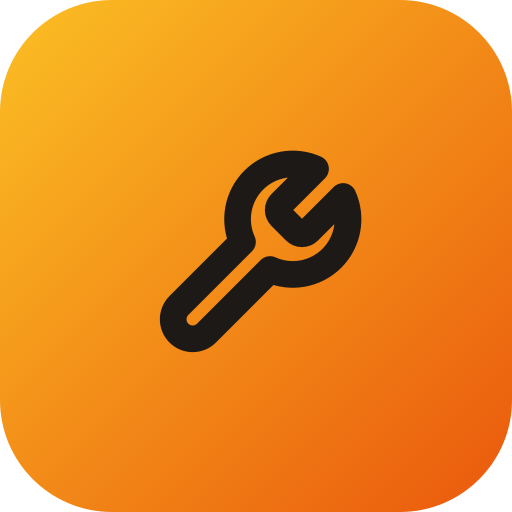
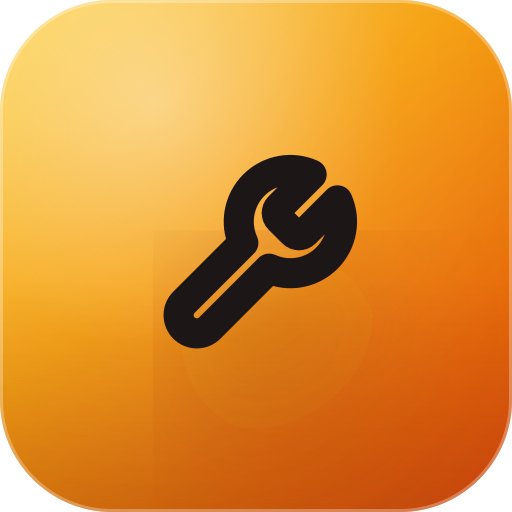
Visual: a porta do sistema parecia um rascunho
O que o dono via de manhã: um quadrado laranja chapado com um risco fino
de chave no meio, sozinho num fundo preto. Na gaveta de aplicativos, ao
lado de OLX, PagBank, Shopee e Telegram, o ícone parecia o rascunho que
ninguém terminou.

**Ícone.** O que separa um ícone acabado de um chapado, em ordem de
retorno: traço grosso (risco fino some no tamanho em que o ícone é olhado
de verdade), profundidade (gradiente de três paradas, brilho no canto de
cima, sombra no pé), sombra sob a marca (descola a chave do fundo, senão
parece adesivo colado) e um anel claro na borda, que é o que o olho lê
primeiro na tela inicial. O maskable continua sem enfeite: o recorte do
Android come justamente a borda onde eles moram.

O primeiro desenho da sombra usava região em porcentagem e o renderizador
pintava um retângulo mais escuro em volta da chave — uma caixa no meio do
ícone. A região agora é explícita.

**Abertura.** O fundo do manifest era #1c1917 e o da abertura do app era
#0f172a: a abertura do Android piscava de marrom para azul no primeiro
segundo, e é esse segundo que dá a impressão de app mal-acabado. Agora é
a mesma cor, com o mesmo brilho âmbar atrás da marca. E a marca respira e
solta um anel — foto parada por dois segundos parece travamento.

**Entrada.** Continua mostrando a loja e não o sistema, agora também no
login: com logo guardada neste aparelho, é a logo que aparece no lugar da
chave, e o nome da loja no lugar de "Sistema TI". Sem logo, fica a marca
[…]

diff --git a/app/src/pages/Login.tsx b/app/src/pages/Login.tsx
@@ -11,6 +11,7 @@ import {
   CONVITE_PENDENTE,
 } from "../lib/auth";
 import { supabaseEnabled } from "../lib/supabase";
+import { marcaDoAparelho } from "../lib/db";
 import {
   RAMOS,
   RAMO_META,
@@ -52,6 +53,14 @@ export const Login: React.FC<{ onEntrou: () => void }> = ({ onEntrou }) => {
   const [ramo, setRamo] = useState<Ramo | null>(() => lerRamoAparelho());
   /** Mostra os quatro tipos mesmo quando o aparelho já conhece a conta */
   const [verTipos, setVerTipos] = useState(false);
+  /**
+   * Nome e logo que este aparelho já tem guardados.
+   *
+   * Lido uma vez: é o mesmo dado que a abertura em index.html mostra, e ele
+   * não muda enquanto ninguém entrou. Some no logout junto com o resto do
+   * cache — num balcão compartilhado, a loja anterior não fica na porta.
+   */
+  const [marca] = useState(marcaDoAparelho);
 
   const escolherRamo = (r: Ramo) => {
     const novo = ramo === r ? null : r;
@@ -203,16 +212,46 @@ export const Login: React.FC<{ onEntrou: () => void }> = ({ onEntrou }) => {
     modo === "entrar" ? "Entrar" : modo === "criar" ? "Criar conta" : "Recuperar senha";
 
   return (
-    <div className="flex min-h-screen items-center justify-center bg-gradient-to-br from-slate-900 via-slate-800 to-brand-900 p-4">
+    <div className="fundo-entrada flex min-h-screen items-center justify-center p-4">
       <div className="w-full max-w-sm">
         <div className="mb-6 text-center">
-          {/* Mesma marca do ícone do app: quem toca no âmbar na tela inicial
-              precisa cair numa tela que confirma que abriu o app certo. */}
-          <div className="mx-auto mb-4 flex h-16 w-16 items-center justify-center rounded-2xl bg-gradient-to-br from-amber-400 to-orange-600 shadow-lg">
-            <Wrench className="text-stone-900" size={30} strokeWidth={2.5} />
+          {/*
+           * A porta é da LOJA, não do sistema.
+           *
+           * Com a logo guardada neste aparelho, é ela que aparece — quem abre
+           * às sete da manhã é o dono, e ver a marca dele antes de digitar a
+           * senha é a diferença entre um app que é da loja e um app genérico
+           * que a loja usa. Sem logo, fica a marca do sistema, que é a mesma
+           * do ícone da tela inicial: quem toca no âmbar precisa cair numa
+           * tela que confirma que abriu o app certo.
+           */}
+          <div
+            className={`marca-viva relative mx-auto mb-4 flex h-[72px] w-[72px] items-center justify-center overflow-hidden rounded-[20px] shadow-lg shadow-orange-900/40 ${
+              marca.logoUrl
+                ? "bg-white"
+                : "bg-gradient-to-br from-amber-300 via-amber-500 to-orange-600"
+            }`}
+          >
+            {marca.logoUrl ? (
+              <img
+                src={marca.logoUrl}
+                alt=""
+                className="h-full w-full object-contain"
+                onError={(e) => {
+                  e.currentTarget.style.display = "none";
+                }}
+              />
+            ) : (
+              <Wrench className="text-stone-900" size={32} strokeWidth={2.6} />
+            )}
           </div>
-          <h1 className="text-2xl font-bold text-white">Sistema TI</h1>
-          <p className="text-sm text-slate-400">
+          <h1 className="text-2xl font-bold tracking-tight text-white">
+            {marca.nomeLoja || "Sistema TI"}
+          </h1>
+          <p className="mt-1.5 text-[13px] leading-snug text-slate-400">
+            Abre, vende, conserta e fecha o dia certo.
+          </p>
+          <p className="mt-1 text-xs text-slate-500">
             {ramoNaTela ? RAMO_META[ramoNaTela].descricao : "Caixa, estoque e atendimento"}
           </p>
         </div>
@@ -372,7 +411,21 @@ export const Login: React.FC<{ onEntrou: () => void }> = ({ onEntrou }) => {
             </p>
           )}
 
-          <button type="submit" className="btn-primary mt-4 w-full" disabled={carregando}>
+          {/*
+           * Âmbar fixo, e não a cor de destaque da loja.
+           *
+           * `btn-primary` segue `corDestaque`, que nasce AZUL. Antes de
+           * entrar não existe loja para ter cor: a tela mostrava um botão
+           * azul embaixo de uma marca âmbar, com a barra do navegador
+           * laranja em volta. Três cores brigando na primeira tela é o que
+           * faz um sistema parecer montado às pressas. Aqui quem manda é a
+           * marca do sistema; lá dentro, a cor que a loja escolheu.
+           */}
+          <button
+            type="submit"
+            className="mt-5 flex w-full items-center justify-center gap-2 rounded-lg bg-gradient-to-br from-amber-500 to-orange-600 px-4 py-2.5 text-sm font-bold text-white shadow-lg shadow-orange-600/25 transition-all duration-150 hover:from-amber-500 hover:to-orange-700 active:scale-[0.97] disabled:cursor-not-allowed disabled:opacity-50"
+            disabled={carregando}
+          >
             {carregando ? "Aguarde..." : titulo}
           </button>
 
@@ -381,7 +434,7 @@ export const Login: React.FC<{ onEntrou: () => void }> = ({ onEntrou }) => {
               <>
                 <button
                   type="button"
-                  className="text-brand-600 hover:underline"
+                  className="font-semibold text-orange-600 hover:underline"
                   onClick={() => setModo("criar")}
                 >
                   Tenho um convite — criar conta
@@ -399,7 +452,7 @@ export const Login: React.FC<{ onEntrou: () => void }> = ({ onEntrou }) => {
             {modo !== "entrar" && (
               <button
                 type="button"
-                className="text-brand-600 hover:underline"
+                className="font-semibold text-orange-600 hover:underline"
                 onClick={() => setModo("entrar")}
               >
                 Voltar para o login

diff --git a/app/index.html b/app/index.html
@@ -59,20 +59,47 @@
         display: flex;
         align-items: center;
         justify-content: center;
-        background: #0f172a;
+        /* O MESMO fundo do background_color do manifest. Diferentes, a
+           abertura do Android piscava de marrom para azul no primeiro
+           segundo — e é esse segundo que dá a impressão de app mal-acabado. */
+        background:
+          radial-gradient(58% 34% at 50% 44%, rgba(249, 115, 22, .26), transparent 72%),
+          radial-gradient(70% 45% at 50% 105%, rgba(251, 191, 36, .12), transparent 70%),
+          #0f172a;
         font-family: Inter, system-ui, -apple-system, "Segoe UI", sans-serif;
         transition: opacity .35s ease;
       }
       #abertura.saindo { opacity: 0; pointer-events: none; }
       .ab-caixa { text-align: center; padding: 0 24px; max-width: 340px; }
       .ab-marca {
+        position: relative;
         width: 76px; height: 76px; margin: 0 auto 18px;
         border-radius: 20px;
         display: flex; align-items: center; justify-content: center;
-        background: linear-gradient(135deg, #fbbf24, #ea580c);
+        background: linear-gradient(135deg, #fcd34d, #f59e0b 45%, #e2530a);
         color: #1c1917;
         box-shadow: 0 14px 34px rgba(234, 88, 12, .32);
         overflow: hidden;
+        /* O ícone respira enquanto carrega. Sem isso a abertura é uma foto
+           parada, e foto parada por dois segundos parece travamento. */
+        animation: ab-respira 2.4s ease-in-out infinite;
+      }
+      /* Anel que sai da marca: diz que a coisa está viva sem pedir atenção */
+      .ab-marca::after {
+        content: "";
+        position: absolute; inset: 0;
+        border-radius: 20px;
+        border: 2px solid rgba(251, 191, 36, .55);
+        animation: ab-anel 2.4s ease-out infinite;
+      }
+      @keyframes ab-respira {
+        0%, 100% { transform: translateY(0) scale(1); }
+        50%      { transform: translateY(-4px) scale(1.04); }
+      }
+      @keyframes ab-anel {
+        0%   { transform: scale(1); opacity: .55; }
+        70%  { transform: scale(1.55); opacity: 0; }
+        100% { transform: scale(1.55); opacity: 0; }
       }
       /* Logo da loja: preenche a caixa toda, sem o fundo laranja aparecendo */
       .ab-marca.tem-logo { background: #fff; padding: 0; }
@@ -100,6 +127,8 @@
       /* Quem pediu menos animação no aparelho não leva animação nenhuma */
       @media (prefers-reduced-motion: reduce) {
         .ab-barra span { animation: none; width: 100%; }
+        .ab-marca, .ab-marca::after { animation: none; }
+        .ab-marca::after { opacity: 0; }
       }
     </style>
 

diff --git a/app/src/index.css b/app/src/index.css
@@ -59,6 +59,38 @@ body {
 .animar-entrada { animation: entrada 0.18s ease-out both; }
 .animar-surgir  { animation: surgir 0.15s ease-out both; }
 
+/* ====== MARCA VIVA ======
+   A tela de entrada era uma foto parada, e foto parada com o campo de senha
+   em cima parece sistema travado. A marca respira e solta um anel: movimento
+   suficiente para dizer que está vivo, devagar o bastante para não brigar
+   com quem está digitando. Mesmo desenho da abertura em index.html. */
+@keyframes respira {
+  0%, 100% { transform: translateY(0) scale(1); }
+  50%      { transform: translateY(-4px) scale(1.04); }
+}
+@keyframes anel {
+  0%        { transform: scale(1); opacity: .55; }
+  70%, 100% { transform: scale(1.55); opacity: 0; }
+}
+.marca-viva { animation: respira 2.4s ease-in-out infinite; }
+.marca-viva::after {
+  content: "";
+  position: absolute;
+  inset: 0;
+  border-radius: inherit;
+  border: 2px solid rgb(251 191 36 / 0.55);
+  animation: anel 2.4s ease-out infinite;
+}
+
+/* Fundo da tela de entrada: o mesmo da abertura, para a passagem de uma
+   para a outra não ser um corte de cor na cara de quem está entrando. */
+.fundo-entrada {
+  background:
+    radial-gradient(65% 45% at 50% 8%, rgb(249 115 22 / 0.30), transparent 72%),
+    radial-gradient(70% 50% at 50% 105%, rgb(251 191 36 / 0.14), transparent 70%),
+    #0f172a;
+}
+
 @media (prefers-reduced-motion: reduce) {
   *,
   *::before,

diff --git a/app/src/lib/db.ts b/app/src/lib/db.ts
@@ -81,6 +81,28 @@ export const obterLoja = (): string | null => lojaAtual;
  */
 const CHAVES_DO_APARELHO = [PREFIX + "config", PREFIX + "ramo-por-conta"];
 
+/**
+ * O que este aparelho já sabe da loja, sem esperar a nuvem.
+ *
+ * Serve para a tela de entrada se apresentar como a LOJA e não como o
+ * sistema: quem abre isso às sete da manhã é o dono, e ver o nome e a logo
+ * dele antes de digitar a senha é a diferença entre um app que é da loja e
+ * um app genérico que a loja usa.
+ *
+ * Sai do mesmo lugar que a abertura em index.html lê, e some no logout
+ * junto com o resto do cache — num balcão compartilhado, a loja anterior
+ * não pode ficar estampada na porta.
+ */
+export const marcaDoAparelho = (): { nomeLoja?: string; logoUrl?: string } => {
+  try {
+    const c = JSON.parse(localStorage.getItem(PREFIX + "config") || "{}");
+    return { nomeLoja: c.nomeLoja || undefined, logoUrl: c.logoUrl || undefined };
+  } catch {
+    // Configuração ilegível é enfeite a menos, não tela de erro.
+    return {};
+  }
+};
+
 export const limparCacheLocal = () => {
   for (const chave of Object.keys(localStorage)) {
     if (chave.startsWith(PREFIX) && !CHAVES_DO_APARELHO.includes(chave)) {

diff --git a/app/public/sw.js b/app/public/sw.js
@@ -8,7 +8,7 @@
 //   - assets com hash   -> cache primeiro (o nome muda a cada build, é seguro)
 // Sobe a versão a cada troca de arquivo estático sem hash no nome — os ícones
 // são o caso típico: o nome não muda, e sem isso o favicon velho fica preso.
-const CACHE = "sistema-ti-v4";
+const CACHE = "sistema-ti-v5";
 
 self.addEventListener("install", () => {
   self.skipWaiting();
